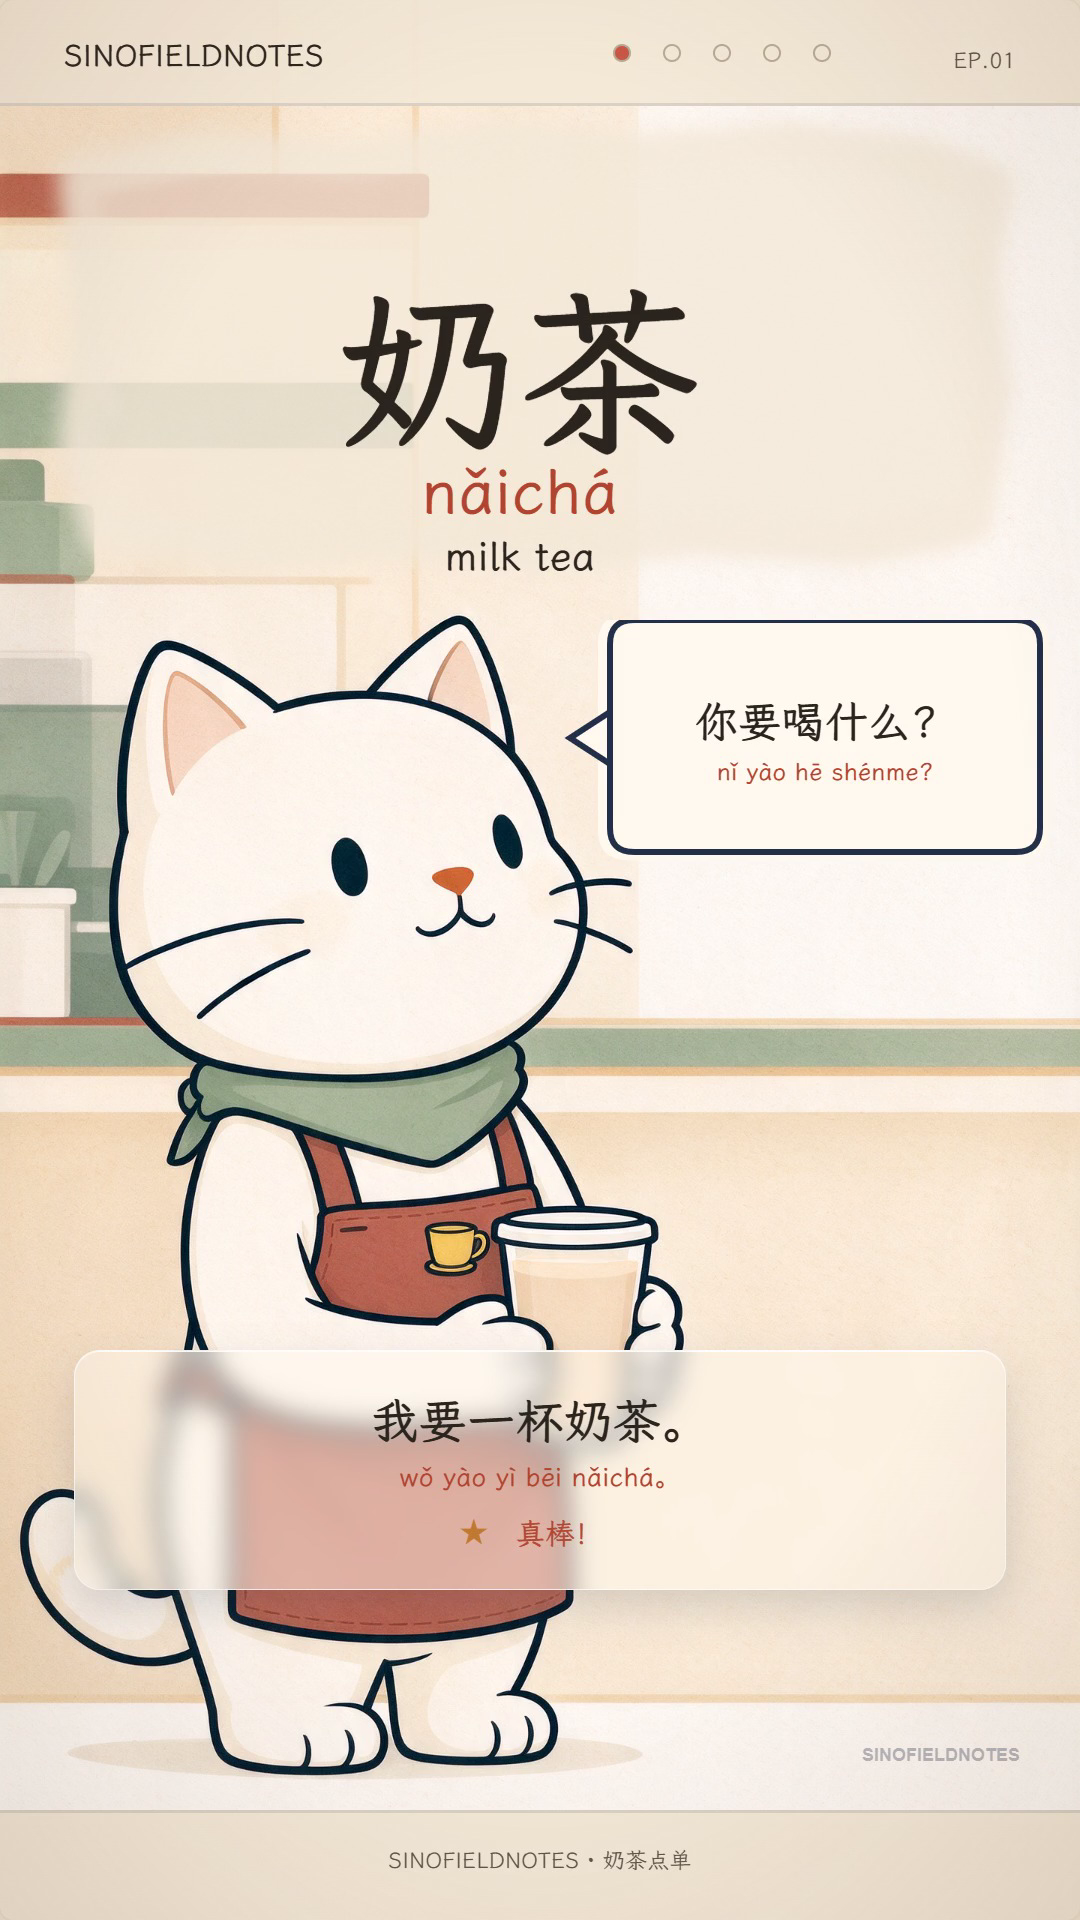
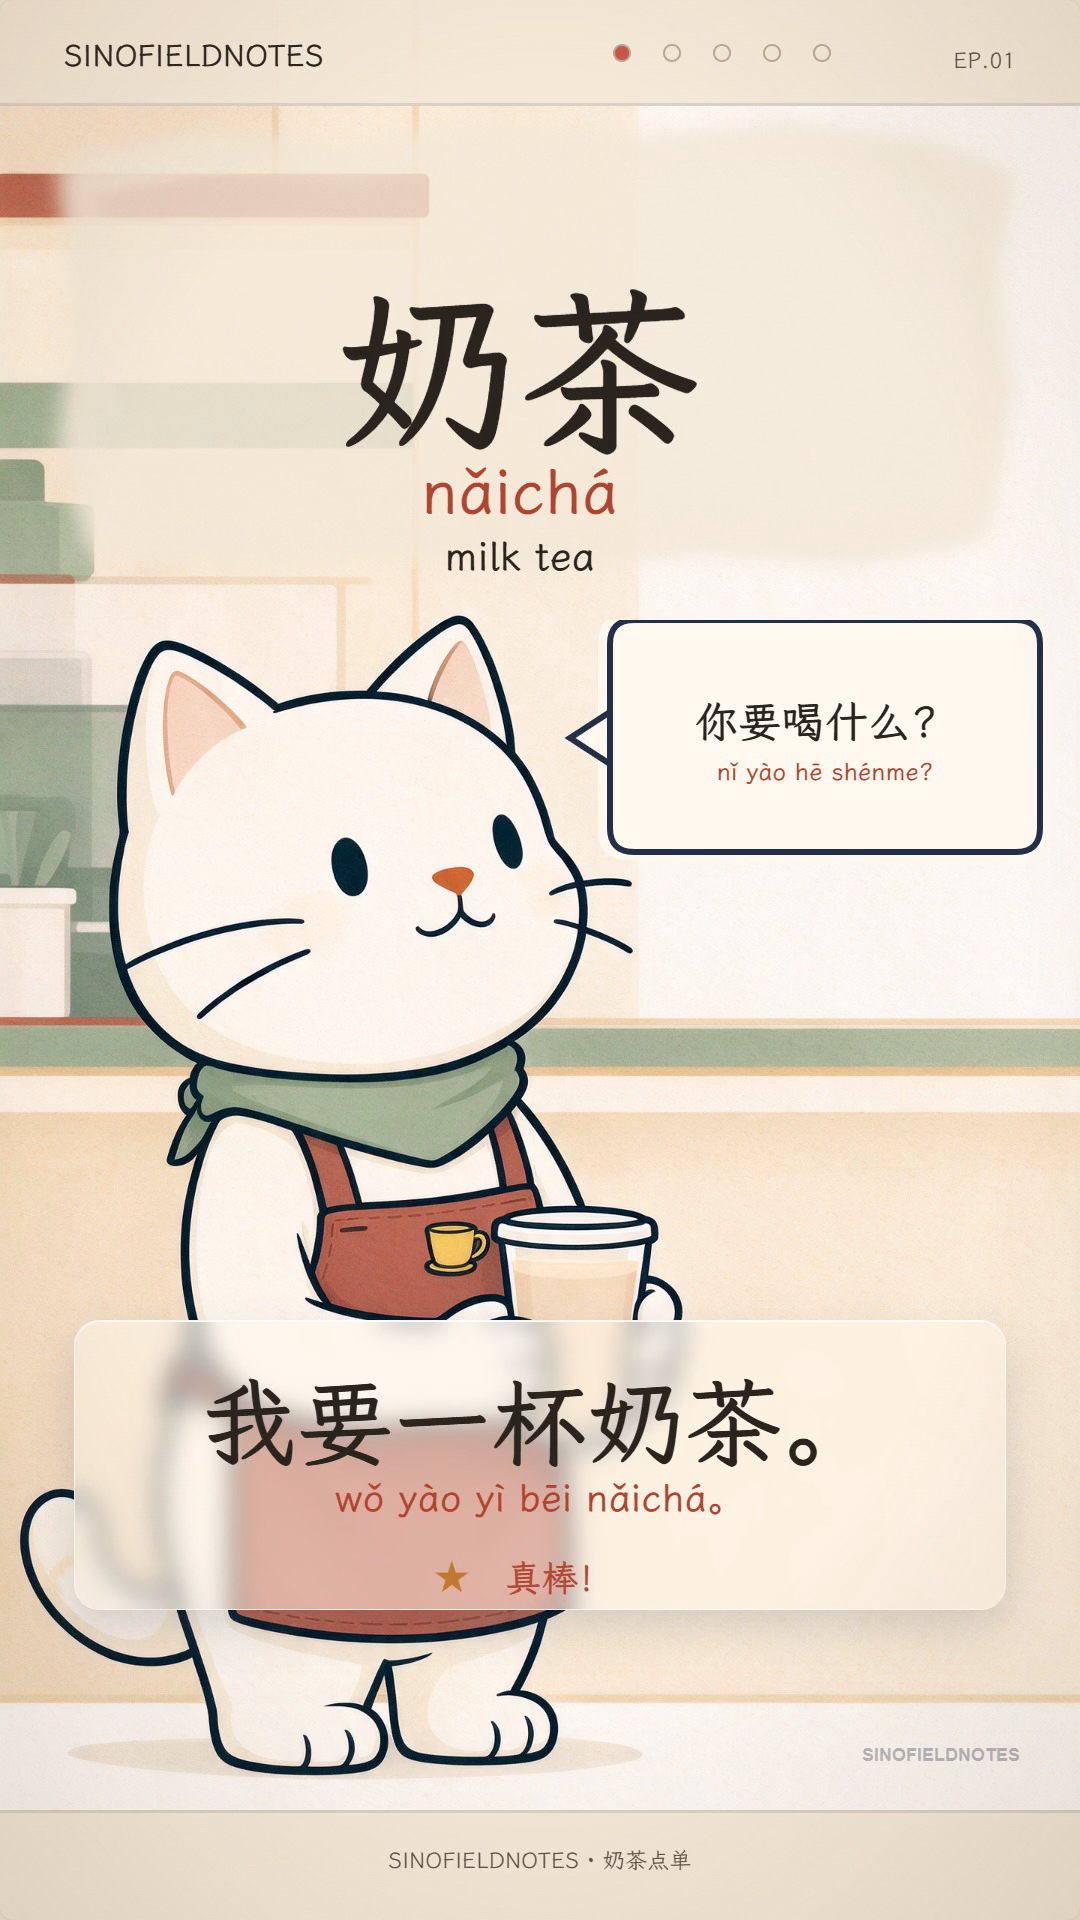
Enlarge glass card answer text

Changed region(s): [[0.0611, 0.6875, 0.9167, 0.8438], [0.1222, 0.8125, 0.1833, 0.8438], [0.7333, 0.75, 0.7639, 0.7812]]

diff --git a/production/experiments/milk-tea-v3/extras/word.js b/production/experiments/milk-tea-v3/extras/word.js
@@ -263,9 +263,9 @@
     Object.assign(glass.style, {
       position: 'absolute',
       left: '74px',
-      top: '1350px',
+      top: '1320px',
       width: '932px',
-      height: '240px',
+      height: '290px',
       borderRadius: '26px',
       background: 'rgba(255,249,239,.52)',
       backdropFilter: 'blur(12px) saturate(1.08)',
@@ -277,18 +277,18 @@
     P.html.appendChild(glass);
 
     const blankA = P.text(data.answerLine, {
-      x: 540, y: 1386, w: 900, align: 'c', size: 48, color: 'ink', weight: 700, at: t1 + 0.4, cps: 10,
+      x: 540, y: 1352, w: 900, align: 'c', size: 96, color: 'ink', weight: 800, at: t1 + 0.4, cps: 10,
     });
     const blankP = P.text(data.answerPinyinBlank, {
-      x: 540, y: 1458, w: 900, align: 'c', size: 26, color: 'red', weight: 600, at: t1 + 0.5, mode: 'fade',
+      x: 540, y: 1470, w: 900, align: 'c', size: 38, color: 'red', weight: 600, at: t1 + 0.5, mode: 'fade',
     });
     blankA.hide(t2, 0.18);
     blankP.hide(t2, 0.18);
     P.text(data.fullAnswer, {
-      x: 540, y: 1386, w: 900, align: 'c', size: 48, color: 'ink', weight: 700, at: t2, cps: 10,
+      x: 540, y: 1352, w: 900, align: 'c', size: 96, color: 'ink', weight: 800, at: t2, cps: 10,
     });
     P.text(data.answerPinyin, {
-      x: 540, y: 1458, w: 900, align: 'c', size: 26, color: 'red', weight: 600, at: t2 + 0.08, mode: 'fade',
+      x: 540, y: 1470, w: 900, align: 'c', size: 38, color: 'red', weight: 600, at: t2 + 0.08, mode: 'fade',
     });
 
     const qEnd = P.ce(1);
@@ -317,10 +317,10 @@
 
     if (data.reward) {
       P.text('★', {
-        x: 474, y: 1512, w: 54, align: 'c', size: 28, color: 'orange', at: t3, mode: 'fade',
+        x: 452, y: 1552, w: 60, align: 'c', size: 34, color: 'orange', at: t3, mode: 'fade',
       });
       P.text(data.reward, {
-        x: 560, y: 1512, w: 300, align: 'c', size: 29, color: 'red', weight: 700, at: t3, mode: 'fade',
+        x: 560, y: 1552, w: 320, align: 'c', size: 36, color: 'red', weight: 700, at: t3, mode: 'fade',
       });
     }
 
